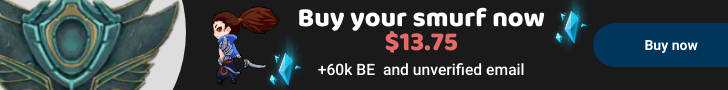
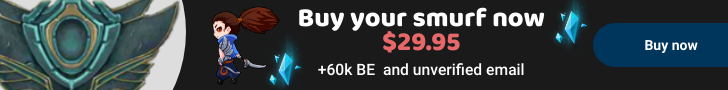
Update price

Changed region(s): [[0.5137, 0.3333, 0.6346, 0.6]]

diff --git a/store/reducers/cartReducer.js b/store/reducers/cartReducer.js
@@ -34,7 +34,7 @@ const initState = {
         {
             id: 1,
             title: "EU WEST",
-            price: 13.99,
+            price: 29.95,
             image: require("../../assets/regions/demacia.jpg"),
             stock: 0,
             quantity: 0,
@@ -43,7 +43,7 @@ const initState = {
         {
             id: 2,
             title: "NA",
-            price: 13.99,
+            price: 29.95,
             image: require("../../assets/regions/Noxus.jpg"),
             stock: 0,
             quantity: 0,
@@ -52,7 +52,7 @@ const initState = {
         {
             id: 3,
             title: "EU NORDIC & EAST",
-            price: 13.99,
+            price: 29.95,
             image: require("../../assets/regions/flelyor.jpg"),
             stock: 0,
             quantity: 0,
@@ -61,7 +61,7 @@ const initState = {
         {
             id: 4,
             title: "TURKEY",
-            price: 13.99,
+            price: 29.95,
             image: require("../../assets/regions/Shuriman.jpg"),
             stock: 0,
             quantity: 0,
@@ -70,7 +70,7 @@ const initState = {
         {
             id: 5,
             title: "PBE",
-            price: 13.99,
+            price: 29.95,
             image: require("../../assets/regions/Piltober.jpg"),
             stock: 0,
             quantity: 0,
@@ -85,7 +85,7 @@ const initState = {
     selectedProduct: {
                         id: 2,
                         title: "NA",
-                        price: 13.99,
+                        price: 29.95,
                         image: require("../../assets/regions/Noxus.jpg"),
                         stock: 0,
                         quantity: 0,

diff --git a/pages/buy-lol-account-safe.js b/pages/buy-lol-account-safe.js
@@ -81,7 +81,7 @@ class BlogDetailsTwo extends Component {
                                     </p>
                                     <h3>Thanks for reading</h3>
                                     <p> Thanks for reading! If you are thinking about climbing in solo queue you should practice these champs in a league of legends smurf account,
-                                        so your main account's elo won't be affected by this. If you are thinking about getting one you can buy a lol smurf account for only $13.99 ! <Link href="/product-details">Just click here if you are interested</Link>
+                                        so your main account's elo won't be affected by this. If you are thinking about getting one you can buy a lol smurf account for only $29.95 ! <Link href="/product-details">Just click here if you are interested</Link>
                                     </p>
                                     <Link href="/">
                                         <img style={{marginBottom:'20px',cursor:'pointer'}} onClick={()=>{}} src={require("../assets/blog/buy-lol-smurf.jpg")} />

diff --git a/pages/best-champs-to-carry-low-elo.js b/pages/best-champs-to-carry-low-elo.js
@@ -242,7 +242,7 @@ class BlogDetailsTwo extends Component {
                                     
                                     <h3>Thanks for reading</h3>
                                     <p> Thanks for reading! If you are thinking about climbing in solo queue you should practice this champs in a smurf account,
-                                        so your main account's elo won't be affected by this. If you are thinking about getting one you can buy a smurf account for only $13.99 ! <Link href="/product-details">Just click here if you are interested</Link>
+                                        so your main account's elo won't be affected by this. If you are thinking about getting one you can buy a smurf account for only $29.95 ! <Link href="/product-details">Just click here if you are interested</Link>
                                     </p>
                                     <Link href="/product-details">
                                         <img style={{marginBottom:'20px',cursor:'pointer'}} onClick={()=>{}} src={require("../assets/blog/buy-lol-smurf.jpg")} />

diff --git a/pages/how-do-i-improve-faster-in-league-of-legends.js b/pages/how-do-i-improve-faster-in-league-of-legends.js
@@ -90,7 +90,7 @@ class BlogDetailsTwo extends Component {
 
                                     <h3>Thanks for reading</h3>
                                     <p> Thanks for reading! If you are thinking about climbing in solo queue you should practice these champs in a league of legends smurf account,
-                                        so your main account's elo won't be affected by this. If you are thinking about getting one you can buy a lol smurf account for only $13.99 ! <Link href="/product-details">Just click here if you are interested</Link>
+                                        so your main account's elo won't be affected by this. If you are thinking about getting one you can buy a lol smurf account for only $29.95 ! <Link href="/product-details">Just click here if you are interested</Link>
                                     </p>
                                     <Link href="/">
                                         <img style={{marginBottom:'20px',cursor:'pointer'}} onClick={()=>{}} src={require("../assets/blog/buy-lol-smurf.jpg")} />

diff --git a/components/Common/ArticleContent.js b/components/Common/ArticleContent.js
@@ -66,7 +66,7 @@ class ArticleContent extends Component {
             <h2>What is the best place to buy league smurfs?</h2>
             
             <p> Lol Smurf is the best site to buy lol accounts, over here in our lolsmurf shop, you can <b>buy your unranked league accounts
-                buy just $13.99! </b>Our cheap lol smurfs are also high quality, we can offer the accounts at that price because we already 
+                buy just $29.95! </b>Our cheap lol smurfs are also high quality, we can offer the accounts at that price because we already 
                 produce tons of them so we can afford to lower the price of our lol unranked accounts
             </p>
             

diff --git a/components/product-details/ProductContent.js b/components/product-details/ProductContent.js
@@ -110,7 +110,7 @@ class ProductContent extends Component {
                         <h3>{this.props.product.title} League of legends account</h3>
 
                         <div className="price">
-                            <span className="new-price"><del>$27.98</del> <span style={{color:'#c56161'}}>$13.99</span></span>
+                            <span className="new-price"><del>$59.9</del> <span style={{color:'#c56161'}}>$29.95</span></span>
                         </div>
 
                         <p>Fresh new League of legends acount (level 30), ideal for smurfing</p>

diff --git a/components/product-details/RelatedProducts.js b/components/product-details/RelatedProducts.js
@@ -120,7 +120,7 @@ class RelatedProducts extends Component {
                                                 </h3>
 
                                                 <div className="product-price">
-                                                    <span className="new-price">$13.99</span>
+                                                    <span className="new-price">$29.95</span>
                                                 </div>
                                                 
                                                 <Link href="#">

diff --git a/components/shop-style-four/OfferArea.js b/components/shop-style-four/OfferArea.js
@@ -12,7 +12,7 @@ class OfferArea extends Component {
                     <div className="container">
                         <div className="products-offer-content">
                             <span>Get the best deal!</span>
-                            <h1>$13.99</h1>
+                            <h1>$29.95</h1>
                             <p>for a fresh new lvl 30 account</p>
                             <Link href="/product-details">
                                 <a onClick={() => {                                 
